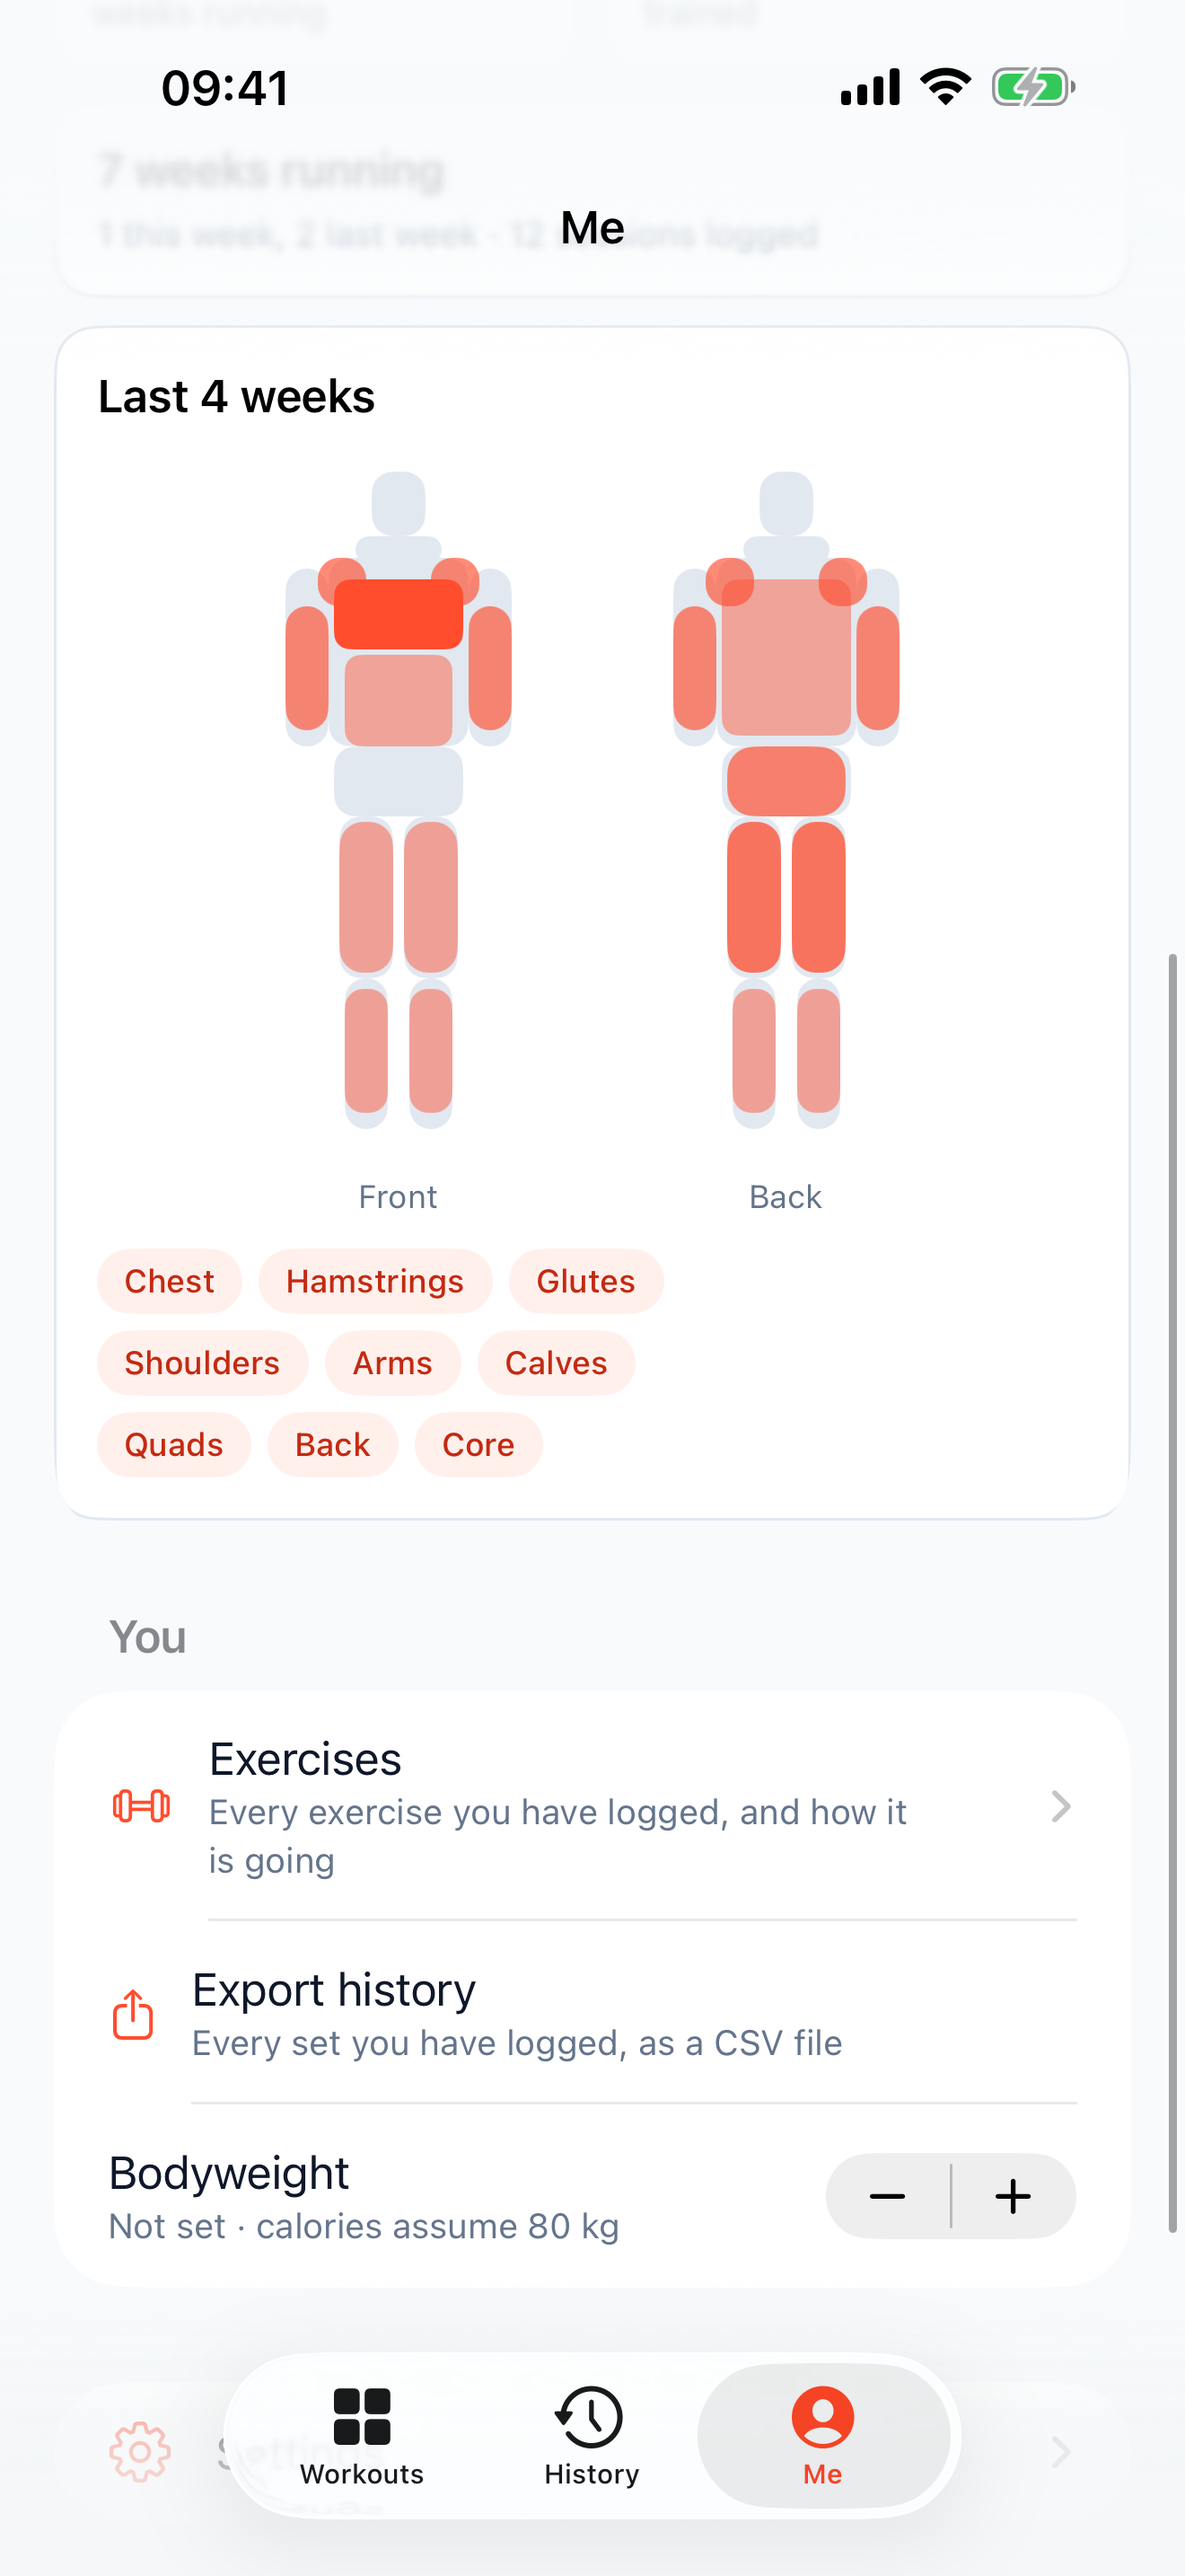
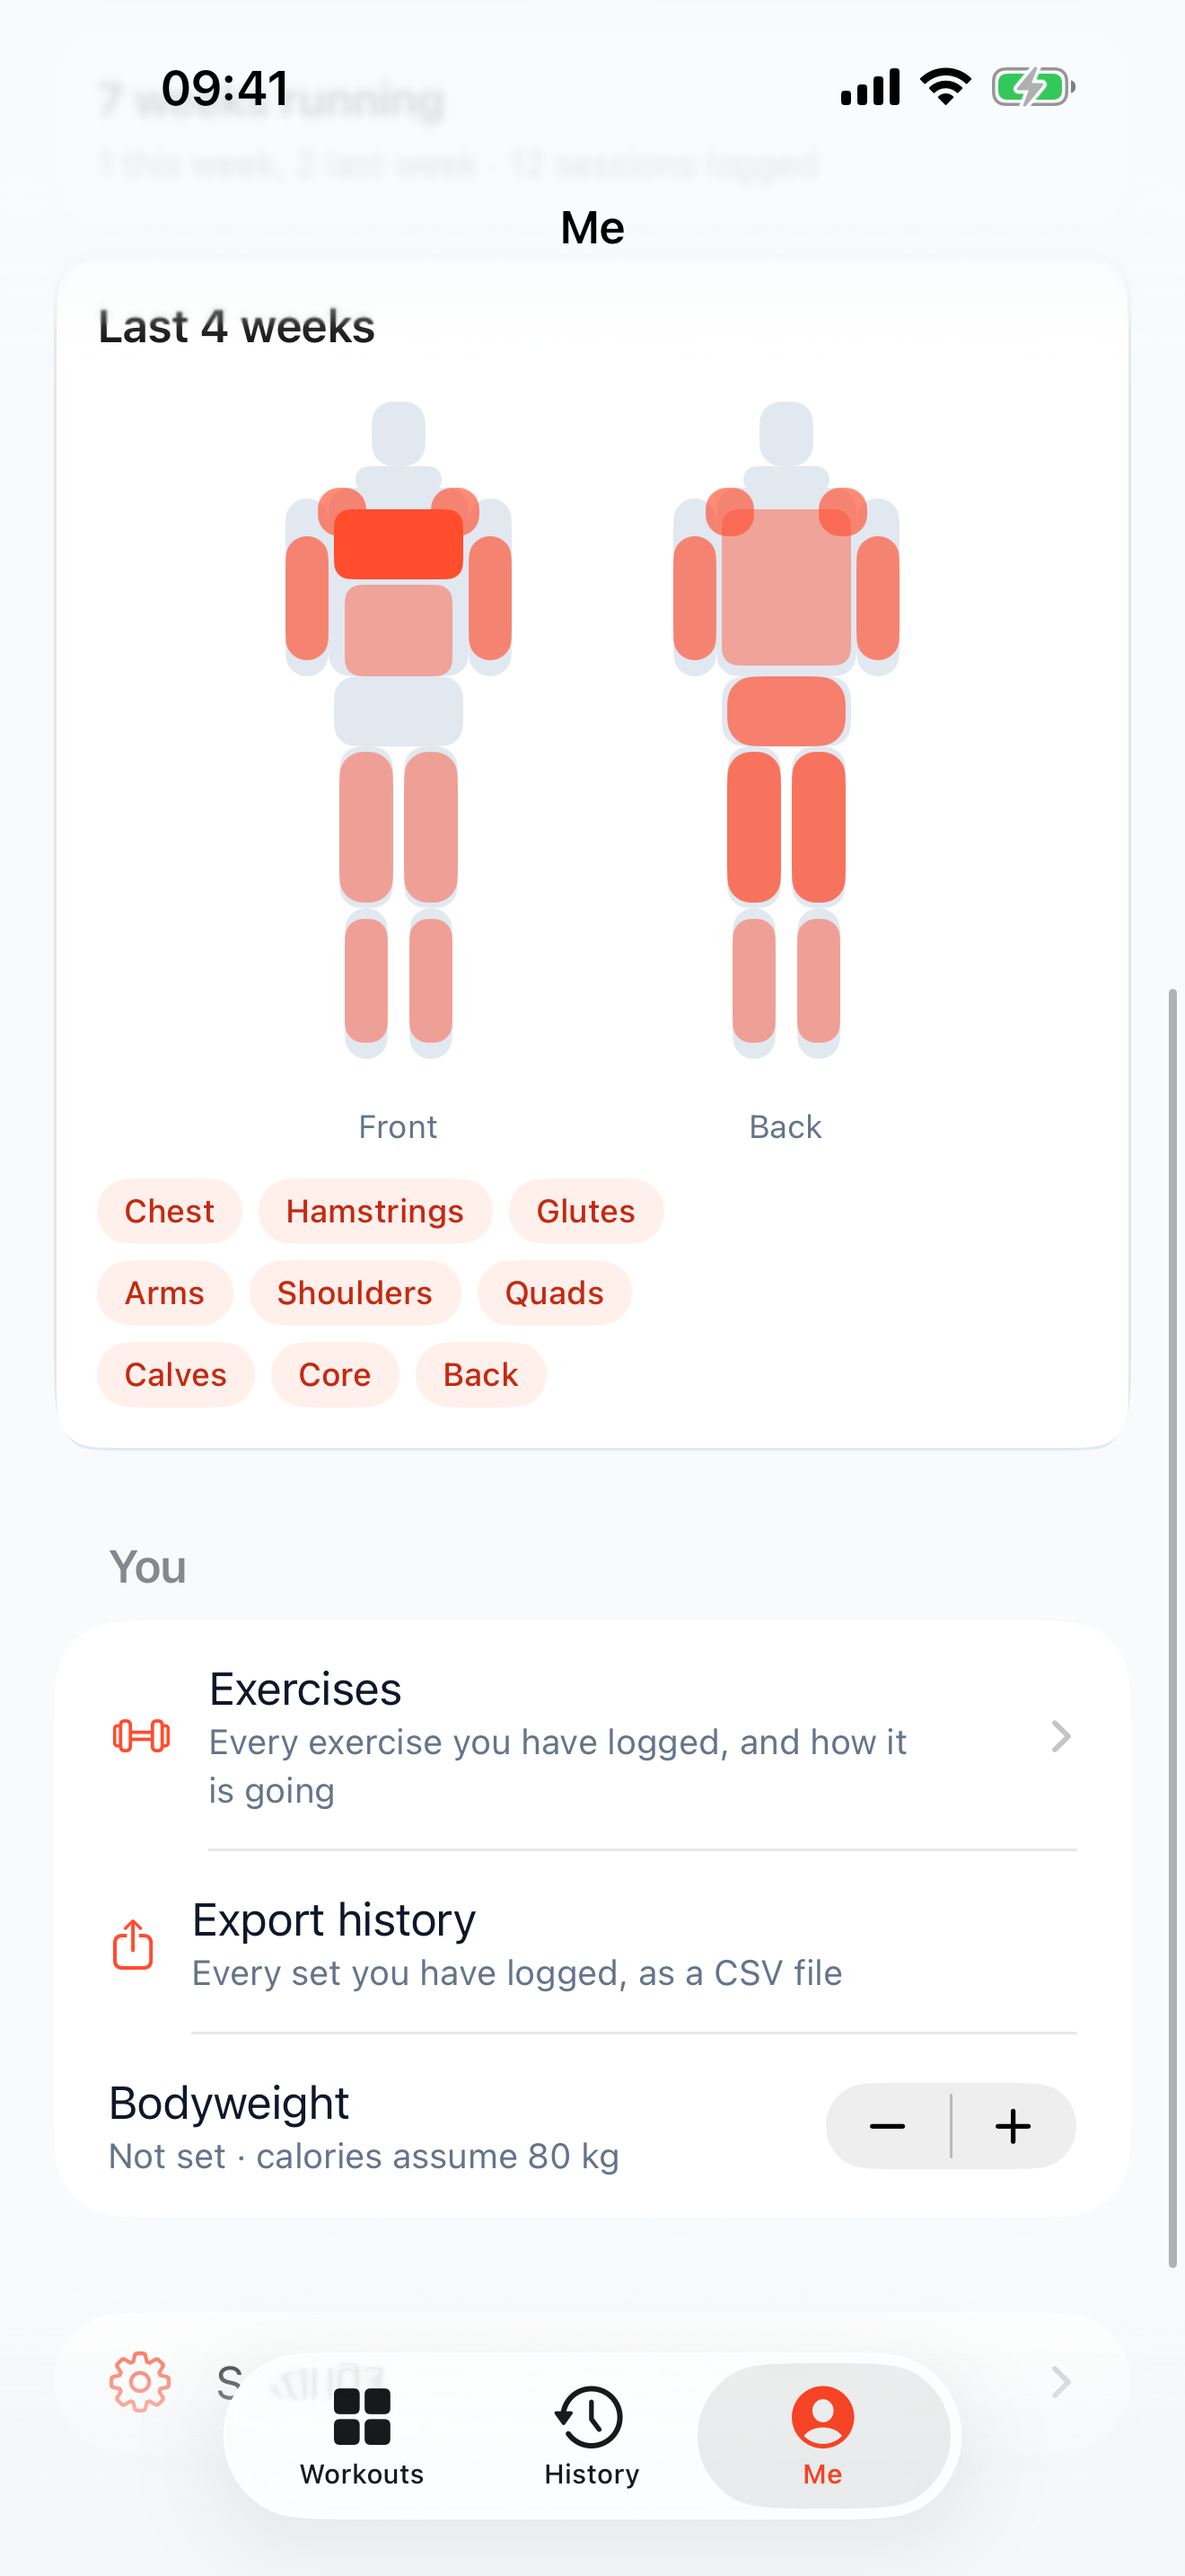
ios: App Store shot of an AI-written Arms and abs workout
-seedArmsAbs seeds the 30-minute workout an AI coach writes when asked for
arms and abs; the screenshot run captures it as 09-ai-workout.

Claude-Session: https://claude.ai/code/session_01HHeMDARgQx8ywBW6rJa3bh

diff --git a/ios/TigerWorkouts/Cloud/Store+Seed.swift b/ios/TigerWorkouts/Cloud/Store+Seed.swift
@@ -122,6 +122,38 @@ extension Store {
         results = (results.filter { !ids.contains($0.rowId) } + seed).sorted { $0.startedAt > $1.startedAt }
     }
 
+    /// `-seedArmsAbs` on launch: "Arms and abs", the 30-minute workout an AI coach writes when asked
+    /// for arms and abs today — the App Store shot of a chat request landing in the app. Fixed id:
+    /// launching with it again replaces it.
+    func seedArmsAbsIfAsked(_ arguments: [String] = ProcessInfo.processInfo.arguments) {
+        guard arguments.contains("-seedArmsAbs") else { return }
+        func ex(_ key: String, _ name: String, _ unit: String = "kg", _ step: Double = 1) -> ExerciseRef {
+            Library.shared.exercise(key)?.ref ?? ExerciseRef(key: key, name: name, unit: unit, step: step)
+        }
+        func reps(_ id: String, _ e: ExerciseRef, _ n: Double, _ load: Double? = nil) -> Step {
+            .exercise(ExerciseStep(id: id, exercise: e, target: load, forMode: .reps, forValue: n))
+        }
+        let plank = ExerciseStep(id: "seed-aa-plank", exercise: ex("bw_plank", "Plank", "s", 10), forMode: .seconds, forValue: 45)
+        var sheet = Runsheet(id: "seed-armsabs", title: "Arms and abs", items: [
+            .block(Block(id: "seed-aa-b1", name: "Arms", repeatCount: 4, steps: [
+                reps("seed-aa-curl", ex("db_curl", "Dumbbell curl"), 10, 12),
+                reps("seed-aa-push", ex("cable_tricep_pushdown", "Tricep pushdown", "kg", 2.5), 12, 25),
+                reps("seed-aa-hammer", ex("db_hammer_curl", "Hammer curl"), 10, 12),
+                reps("seed-aa-kick", ex("db_tricep_kickback", "Triceps kickback"), 12, 8),
+                .rest(RestStep(id: "seed-aa-r1", seconds: 90)),
+            ])),
+            .block(Block(id: "seed-aa-b2", name: "Abs", repeatCount: 4, steps: [
+                .exercise(plank),
+                reps("seed-aa-crunch", ex("bw_reverse_crunch", "Reverse crunch", "", 1), 15),
+                reps("seed-aa-twist", ex("bw_russian_twist", "Russian twist", "", 1), 20),
+                .rest(RestStep(id: "seed-aa-r2", seconds: 60)),
+            ])),
+        ])
+        sheet.creator = "Your AI coach"
+        sheet.description = "Biceps, triceps and core in about 30 minutes: four rounds of curls and triceps work, then four rounds of planks, crunches and twists."
+        myWorkouts = [sheet] + myWorkouts.filter { $0.key != "seed-armsabs" }
+    }
+
     /// `-seedLoads` on launch: a workout of your own, "Loads check", that embeds the NHS 6-minute
     /// warm-up by reference, runs bench as a warm-up, two working sets and a drop set, and presses
     /// at 65% of a 61 kg training max — with home plates set in My equipment, so the press shows

diff --git a/ios/TigerWorkoutsUITests/AppStoreScreenshotsUITests.swift b/ios/TigerWorkoutsUITests/AppStoreScreenshotsUITests.swift
@@ -11,7 +11,7 @@ final class AppStoreScreenshotsUITests: XCTestCase {
         continueAfterFailure = false
         app = XCUIApplication()
         app.launchEnvironment["UITEST_NO_PROMPTS"] = "1"
-        app.launchArguments = ["-seedLogbook", "-seedProgress", "-seedLoads"]
+        app.launchArguments = ["-seedLogbook", "-seedProgress", "-seedLoads", "-seedArmsAbs"]
         app.launch()
         let discard = app.alerts.buttons["Discard"]
         if discard.waitForExistence(timeout: 3) { discard.tap() }
@@ -53,6 +53,11 @@ final class AppStoreScreenshotsUITests: XCTestCase {
         sleep(1)
         snap("05-exercise")
         if app.buttons["Done"].exists { app.buttons["Done"].firstMatch.tap() }
+        back()
+
+        open("Arms and abs")
+        sleep(1)
+        snap("09-ai-workout")
         back()
 
         tap(app.tabBars.buttons["History"])

diff --git a/ios/TigerWorkouts/Cloud/Store.swift b/ios/TigerWorkouts/Cloud/Store.swift
@@ -91,6 +91,7 @@ final class Store {
         seedPaceIfAsked()
         seedProgressIfAsked()
         seedLoadsIfAsked()
+        seedArmsAbsIfAsked()
         seedTimedIfAsked()
         seedVersionsIfAsked()
         seedAICoachIfAsked()
